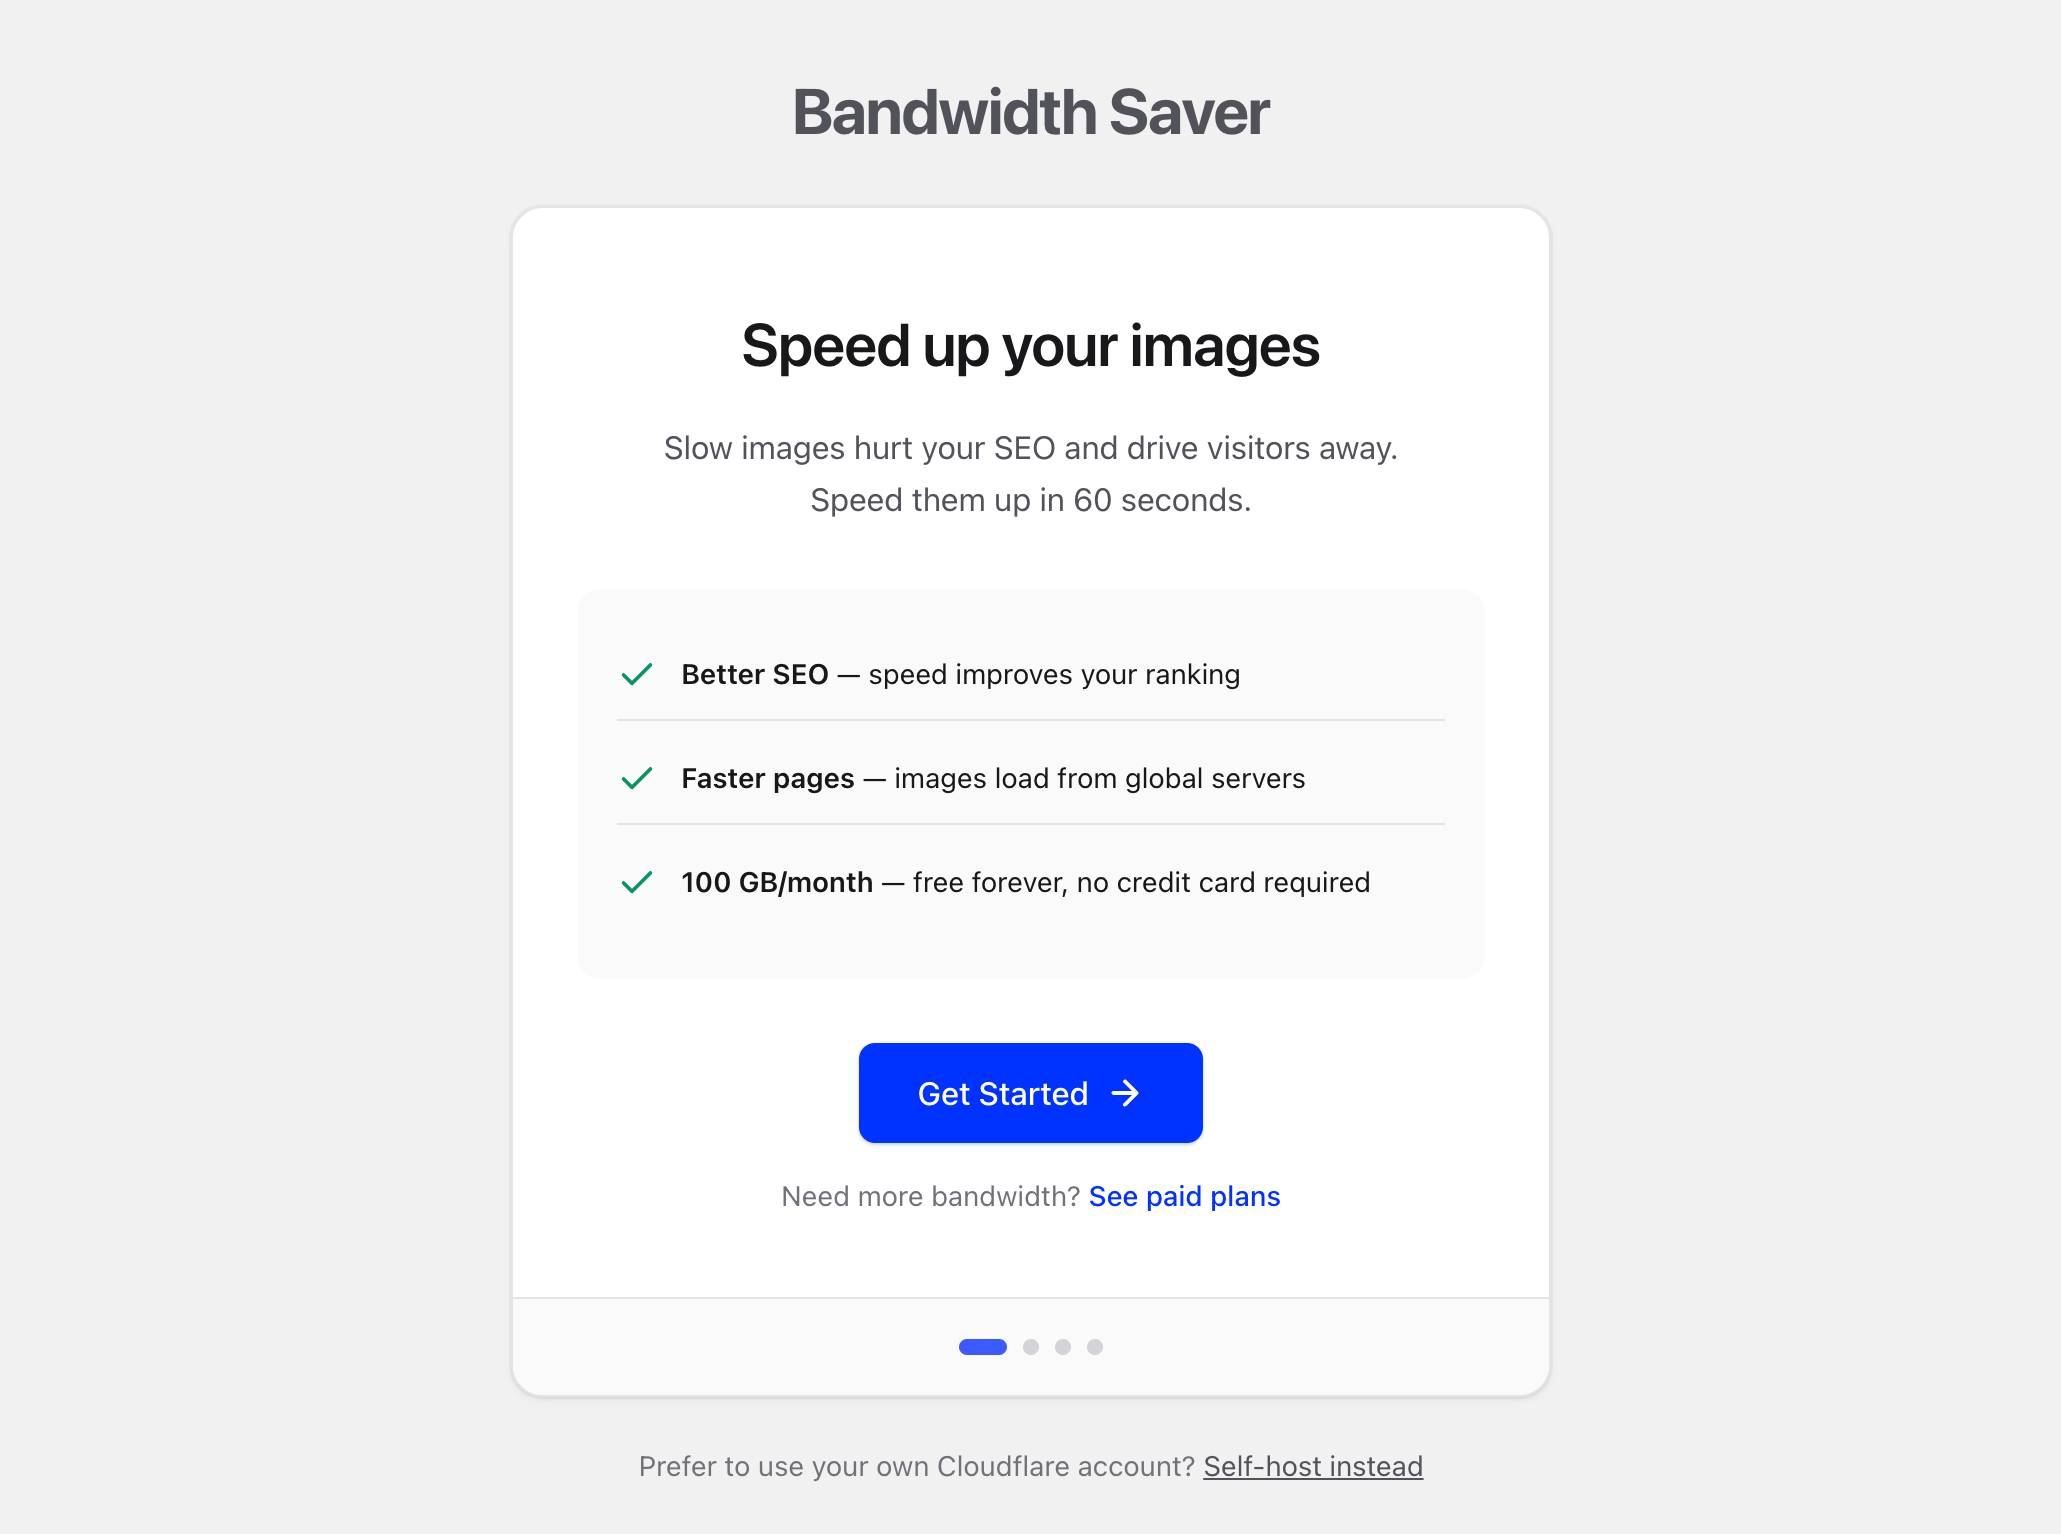
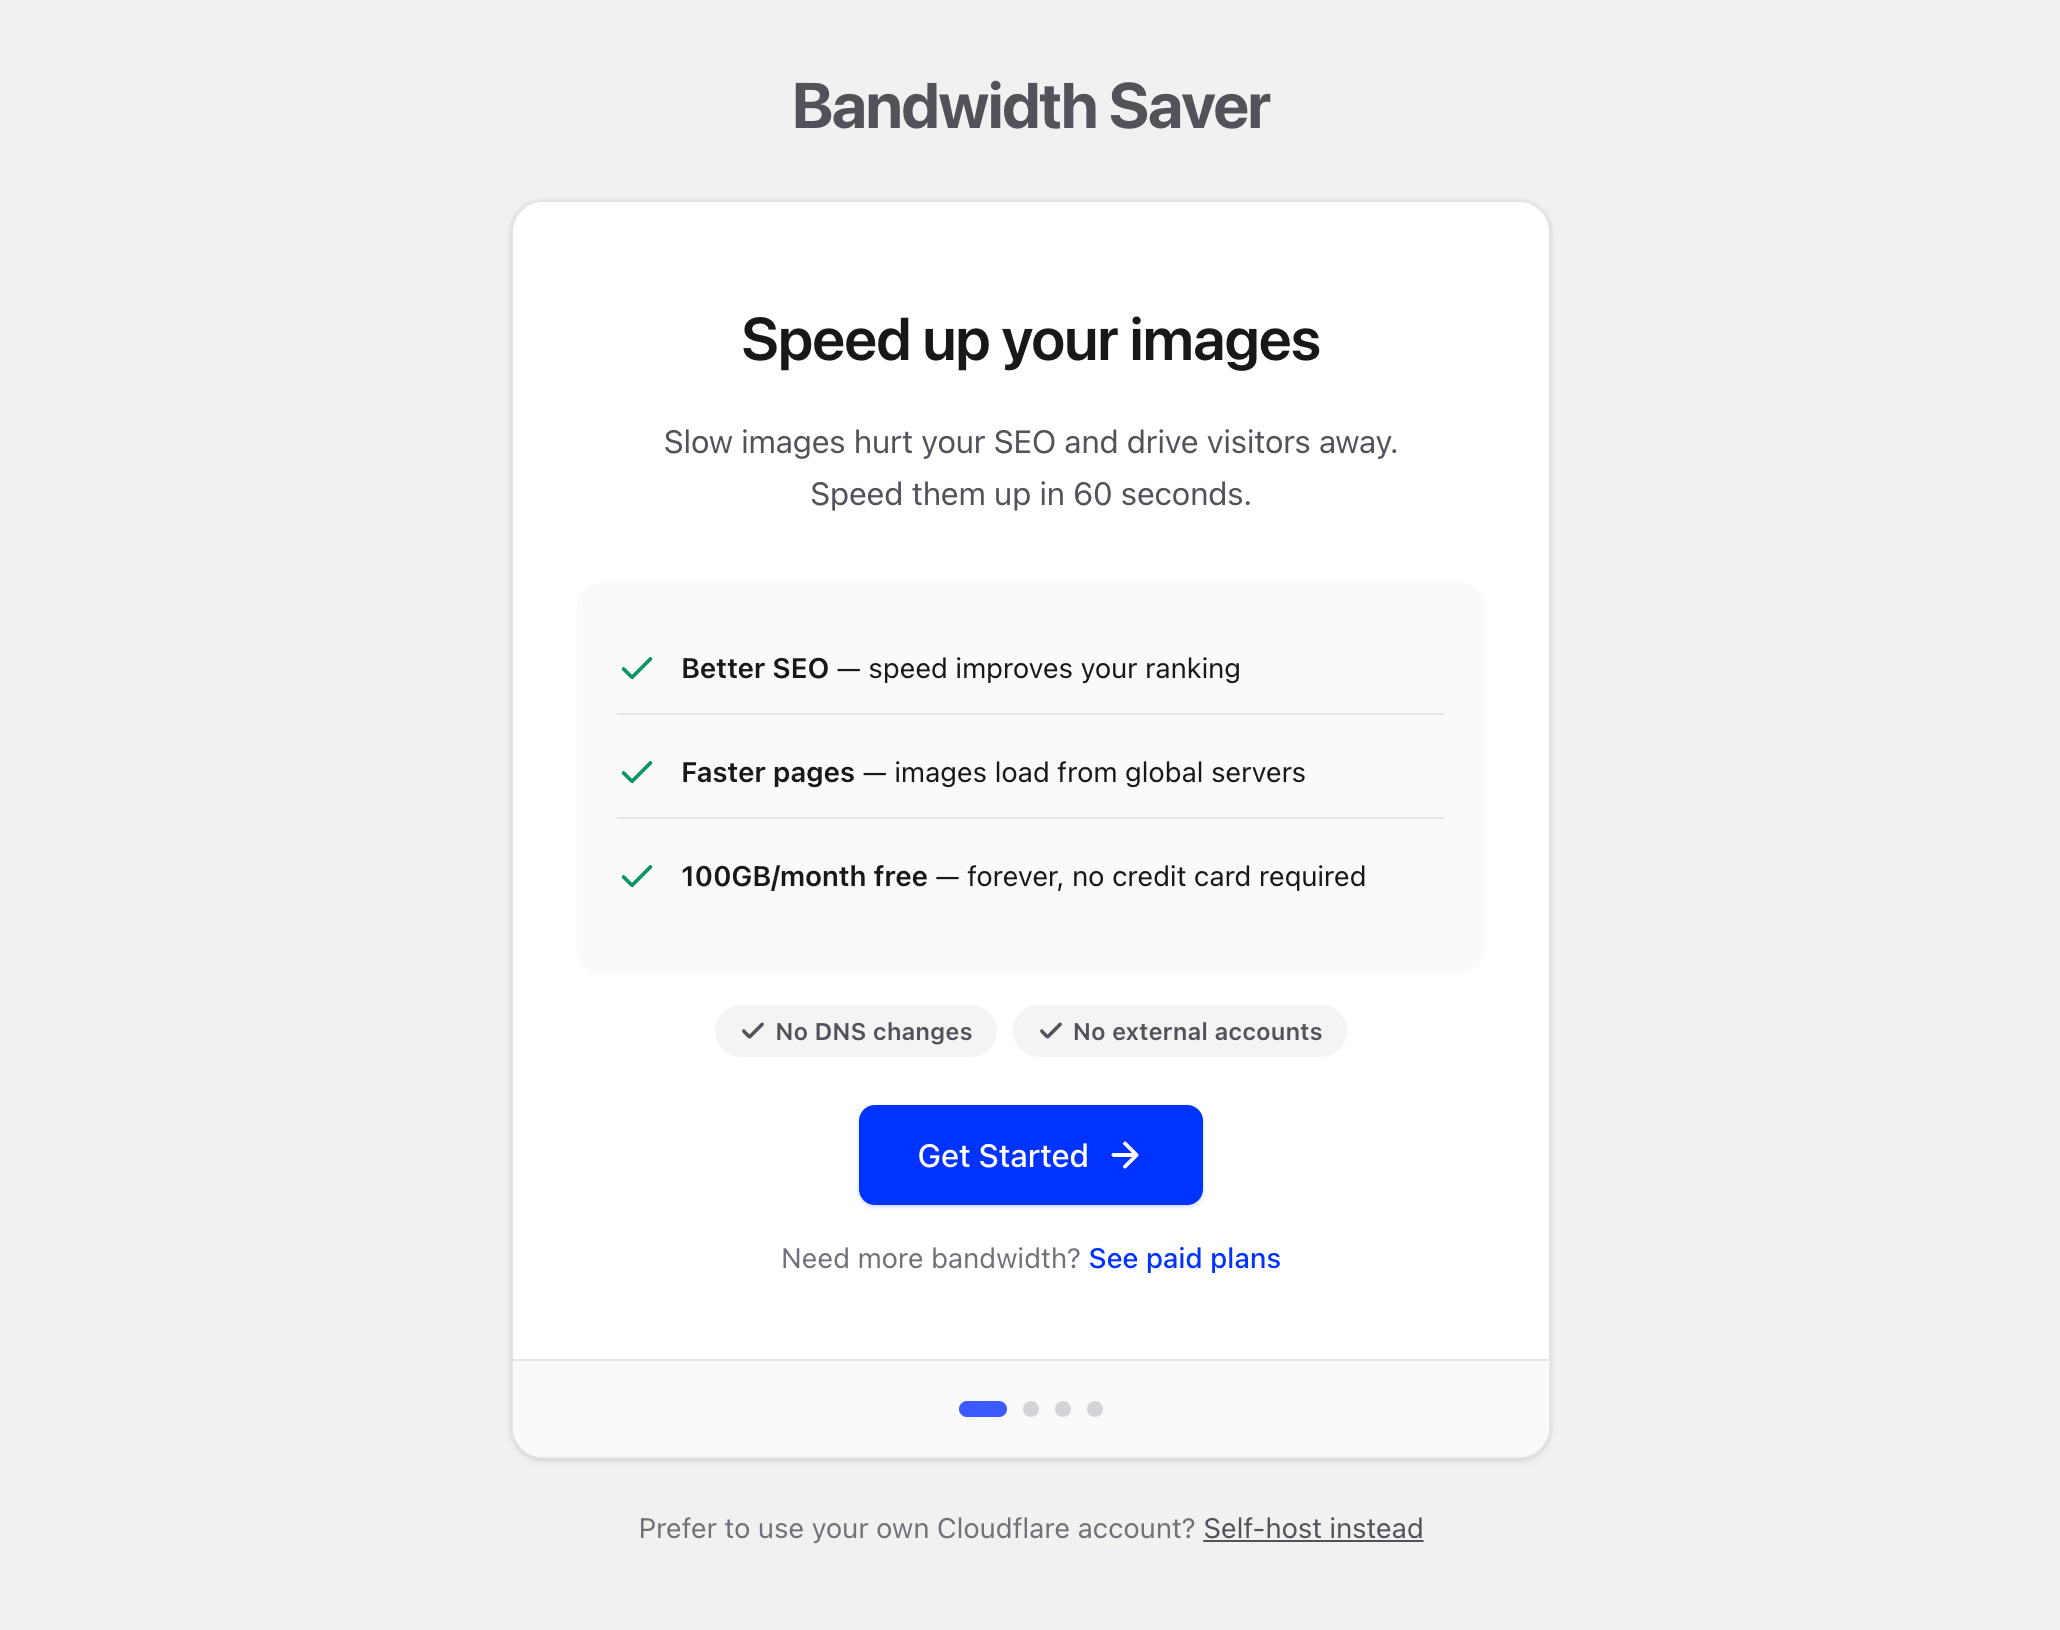
Release 0.2.3

diff --git a/admin/css/imgpro-cdn-admin.css b/admin/css/imgpro-cdn-admin.css
@@ -766,6 +766,35 @@
     font-weight: 600;
 }
 
+/* Pills */
+.imgpro-onboarding-pills {
+    display: flex;
+    justify-content: center;
+    gap: var(--imgpro-space-2);
+    margin: 0 0 var(--imgpro-space-6);
+}
+
+.imgpro-onboarding-pill {
+    display: inline-flex;
+    align-items: center;
+    gap: var(--imgpro-space-1);
+    padding: var(--imgpro-space-1) var(--imgpro-space-3);
+    font-size: var(--imgpro-text-xs);
+    font-weight: 600;
+    color: var(--imgpro-text-secondary);
+    background: var(--imgpro-gray-100);
+    border-radius: 9999px;
+}
+
+.imgpro-onboarding-step-1 {
+    text-align: center;
+}
+
+.imgpro-onboarding-step-1 .imgpro-onboarding-benefits {
+    text-align: left;
+    margin-bottom: var(--imgpro-space-4);
+}
+
 /* Actions */
 .imgpro-onboarding-actions {
     margin-bottom: var(--imgpro-space-4);
@@ -995,7 +1024,6 @@
     border: 1px solid var(--imgpro-border);
     border-radius: var(--imgpro-radius-lg);
     box-shadow: var(--imgpro-card-shadow);
-    margin-bottom: var(--imgpro-space-6);
     transition: all var(--imgpro-transition-base) var(--imgpro-ease-out);
 }
 
@@ -1865,9 +1893,11 @@
 
 .imgpro-feature-list {
     list-style: none;
-    margin: 0 0 var(--imgpro-space-8);
+    width: 100%;
+    max-width: 600px;
+    margin: 0 auto var(--imgpro-space-6);
     padding: var(--imgpro-space-5);
-    background: var(--imgpro-bg);
+    background: var(--imgpro-bg-subtle);
     border-radius: var(--imgpro-radius-lg);
     text-align: left;
 }
@@ -1879,6 +1909,7 @@
     padding: var(--imgpro-space-3) 0;
     font-size: var(--imgpro-text-sm);
     color: var(--imgpro-text);
+    line-height: var(--imgpro-leading-normal);
 }
 
 .imgpro-feature-list li:not(:last-child) {
@@ -1887,7 +1918,9 @@
 
 .imgpro-feature-list li svg {
     flex-shrink: 0;
-    margin-top: 2px;
+    width: 20px;
+    height: 20px;
+    margin-top: 1px;
     color: var(--imgpro-success-600);
 }
 
@@ -1909,10 +1942,43 @@
     font-size: var(--imgpro-text-sm);
 }
 
+/* CTA Pills */
+.imgpro-cta-pills {
+    display: flex;
+    justify-content: center;
+    gap: var(--imgpro-space-2);
+    margin-bottom: var(--imgpro-space-6);
+}
+
+.imgpro-cta-pill {
+    display: inline-flex;
+    align-items: center;
+    gap: var(--imgpro-space-1);
+    padding: var(--imgpro-space-1) var(--imgpro-space-3);
+    font-size: var(--imgpro-text-xs);
+    font-weight: 600;
+    color: var(--imgpro-text-secondary);
+    background: var(--imgpro-gray-100);
+    border-radius: 9999px;
+}
+
 .imgpro-cta-note {
     margin: var(--imgpro-space-4) 0 0;
     font-size: var(--imgpro-text-sm);
     color: var(--imgpro-text-muted);
+}
+
+.imgpro-safety-note {
+    margin: 0;
+    padding: var(--imgpro-space-3) var(--imgpro-space-4);
+    font-size: var(--imgpro-text-xs);
+    color: var(--imgpro-text-secondary);
+    background: transparent;
+    border: 1px solid rgba(0, 0, 0, 0.06);
+    border-top-color: rgba(0, 0, 0, 0.08);
+    border-bottom-color: rgba(255, 255, 255, 0.8);
+    border-radius: var(--imgpro-radius);
+    text-align: center;
 }
 
 .imgpro-cta-recovery {

diff --git a/includes/class-imgpro-cdn-admin.php b/includes/class-imgpro-cdn-admin.php
@@ -1017,7 +1017,7 @@ class ImgPro_CDN_Admin {
         if ( 'cancelled' === $type ) {
             $icon        = '<svg width="24" height="24" viewBox="0 0 24 24" fill="none"><circle cx="12" cy="12" r="10" stroke="currentColor" stroke-width="2"/><path d="M15 9l-6 6M9 9l6 6" stroke="currentColor" stroke-width="2" stroke-linecap="round"/></svg>';
             $title       = __( 'Your subscription has ended', 'bandwidth-saver' );
-            $message     = __( 'Your Pro subscription has been cancelled. CDN functionality is disabled until you resubscribe.', 'bandwidth-saver' );
+            $message     = __( 'Your subscription has been cancelled. CDN functionality is disabled until you resubscribe.', 'bandwidth-saver' );
             $button_text = __( 'Resubscribe', 'bandwidth-saver' );
             $button_id   = 'imgpro-resubscribe';
             $alert_class = 'is-error';
@@ -1155,13 +1155,24 @@ class ImgPro_CDN_Admin {
                     </li>
                     <li>
                         <svg width="20" height="20" viewBox="0 0 20 20" fill="none"><path d="M16.667 5L7.5 14.167 3.333 10" stroke="currentColor" stroke-width="2" stroke-linecap="round" stroke-linejoin="round"/></svg>
-                        <span><strong><?php esc_html_e('100 GB/month', 'bandwidth-saver'); ?></strong> — <?php esc_html_e('free forever, no credit card required', 'bandwidth-saver'); ?></span>
+                        <span><strong><?php esc_html_e('100GB/month free', 'bandwidth-saver'); ?></strong> — <?php esc_html_e('forever, no credit card required', 'bandwidth-saver'); ?></span>
                     </li>
                     <li>
                         <svg width="20" height="20" viewBox="0 0 20 20" fill="none"><path d="M16.667 5L7.5 14.167 3.333 10" stroke="currentColor" stroke-width="2" stroke-linecap="round" stroke-linejoin="round"/></svg>
                         <span><strong><?php esc_html_e('Nothing to break', 'bandwidth-saver'); ?></strong> — <?php esc_html_e('your images stay safely on your server', 'bandwidth-saver'); ?></span>
                     </li>
                 </ul>
+
+                <div class="imgpro-cta-pills">
+                    <span class="imgpro-cta-pill">
+                        <svg width="14" height="14" viewBox="0 0 20 20" fill="none"><path d="M16.667 5L7.5 14.167 3.333 10" stroke="currentColor" stroke-width="2.5" stroke-linecap="round" stroke-linejoin="round"/></svg>
+                        <?php esc_html_e('No DNS changes', 'bandwidth-saver'); ?>
+                    </span>
+                    <span class="imgpro-cta-pill">
+                        <svg width="14" height="14" viewBox="0 0 20 20" fill="none"><path d="M16.667 5L7.5 14.167 3.333 10" stroke="currentColor" stroke-width="2.5" stroke-linecap="round" stroke-linejoin="round"/></svg>
+                        <?php esc_html_e('No external accounts', 'bandwidth-saver'); ?>
+                    </span>
+                </div>
 
                 <div class="imgpro-cta-actions">
                     <button type="button" class="imgpro-btn imgpro-btn-primary imgpro-btn-lg" id="imgpro-free-signup">
@@ -1219,18 +1230,21 @@ class ImgPro_CDN_Admin {
             <?php // 1. CDN Toggle ?>
             <?php $this->render_toggle_card($settings, ImgPro_CDN_Settings::MODE_CLOUD); ?>
 
+            <p class="imgpro-safety-note">
+                <?php esc_html_e('Your original images stay on your server. Turning the CDN off or deactivating the plugin will not break your site — image URLs simply return to normal.', 'bandwidth-saver'); ?>
+            </p>
 
-            <?php // 2. Account Card ?>
-            <?php $this->render_account_card($settings, $email); ?>
-
-            <?php // 3. Stats Grid ?>
+            <?php // 2. Stats Grid ?>
             <?php $this->render_stats_grid($settings); ?>
 
-            <?php // 4. Source URLs Section ?>
-            <?php $this->render_source_urls_section($settings); ?>
+            <?php // 3. Account Card ?>
+            <?php $this->render_account_card($settings, $email); ?>
 
-            <?php // 5. Custom Domain Section ?>
+            <?php // 4. Custom Domain Section ?>
             <?php $this->render_custom_domain_section($settings); ?>
+
+            <?php // 5. Source URLs Section ?>
+            <?php $this->render_source_urls_section($settings); ?>
 
             <?php // Custom Domain Pending Notice (if DNS needs attention) ?>
             <?php if ($needs_attention): ?>
@@ -1326,7 +1340,7 @@ class ImgPro_CDN_Admin {
                 <div class="imgpro-account-card__footer">
                     <span><?php echo esc_html($email); ?></span>
                     <span class="imgpro-separator">·</span>
-                    <span><?php esc_html_e('Free Plan', 'bandwidth-saver'); ?></span>
+                    <span><?php esc_html_e('Free Plan — 100 GB/month included', 'bandwidth-saver'); ?></span>
                 </div>
             </div>
         <?php else: ?>

diff --git a/includes/class-imgpro-cdn-onboarding.php b/includes/class-imgpro-cdn-onboarding.php
@@ -161,9 +161,20 @@ class ImgPro_CDN_Onboarding {
                 </li>
                 <li>
                     <svg width="20" height="20" viewBox="0 0 20 20" fill="none"><path d="M16.667 5L7.5 14.167 3.333 10" stroke="currentColor" stroke-width="2" stroke-linecap="round" stroke-linejoin="round"/></svg>
-                    <span><strong><?php esc_html_e('100 GB/month', 'bandwidth-saver'); ?></strong> — <?php esc_html_e('free forever, no credit card required', 'bandwidth-saver'); ?></span>
+                    <span><strong><?php esc_html_e('100GB/month free', 'bandwidth-saver'); ?></strong> — <?php esc_html_e('forever, no credit card required', 'bandwidth-saver'); ?></span>
                 </li>
             </ul>
+
+            <div class="imgpro-onboarding-pills">
+                <span class="imgpro-onboarding-pill">
+                    <svg width="14" height="14" viewBox="0 0 20 20" fill="none"><path d="M16.667 5L7.5 14.167 3.333 10" stroke="currentColor" stroke-width="2.5" stroke-linecap="round" stroke-linejoin="round"/></svg>
+                    <?php esc_html_e('No DNS changes', 'bandwidth-saver'); ?>
+                </span>
+                <span class="imgpro-onboarding-pill">
+                    <svg width="14" height="14" viewBox="0 0 20 20" fill="none"><path d="M16.667 5L7.5 14.167 3.333 10" stroke="currentColor" stroke-width="2.5" stroke-linecap="round" stroke-linejoin="round"/></svg>
+                    <?php esc_html_e('No external accounts', 'bandwidth-saver'); ?>
+                </span>
+            </div>
 
             <div class="imgpro-onboarding-actions">
                 <button type="button" class="imgpro-btn imgpro-btn-primary imgpro-btn-lg" id="imgpro-onboarding-start">
@@ -309,6 +320,10 @@ class ImgPro_CDN_Onboarding {
                     <li>
                         <svg width="16" height="16" viewBox="0 0 16 16" fill="none"><circle cx="8" cy="8" r="3" fill="currentColor"/></svg>
                         <?php esc_html_e('Your original files stay safe on your server', 'bandwidth-saver'); ?>
+                    </li>
+                    <li>
+                        <svg width="16" height="16" viewBox="0 0 16 16" fill="none"><circle cx="8" cy="8" r="3" fill="currentColor"/></svg>
+                        <?php esc_html_e('If anything goes wrong, images load directly from your site', 'bandwidth-saver'); ?>
                     </li>
                 </ul>
             </div>

diff --git a/imgpro-cdn.php b/imgpro-cdn.php
@@ -3,7 +3,7 @@
  * Plugin Name: Bandwidth Saver: Image CDN
  * Plugin URI: https://github.com/img-pro/bandwidth-saver
  * Description: Instant image CDN. 100 GB/month free, no DNS changes, no external accounts.
- * Version: 0.2.2
+ * Version: 0.2.3
  * Author: ImgPro
  * Author URI: https://img.pro
  * License: GPLv2 or later
@@ -25,7 +25,7 @@ if (version_compare(get_bloginfo('version'), '6.2', '<')) {
     add_action('admin_notices', function() {
         ?>
         <div class="notice notice-error">
-            <p><?php esc_html_e('Image CDN requires WordPress 6.2 or higher. Please update WordPress to use this plugin.', 'bandwidth-saver'); ?></p>
+            <p><?php esc_html_e('Bandwidth Saver requires WordPress 6.2 or higher. Please update WordPress to use this plugin.', 'bandwidth-saver'); ?></p>
         </div>
         <?php
     });
@@ -37,7 +37,7 @@ if (version_compare(PHP_VERSION, '7.4', '<')) {
     add_action('admin_notices', function() {
         ?>
         <div class="notice notice-error">
-            <p><?php esc_html_e('Image CDN requires PHP 7.4 or higher. Contact your hosting provider to upgrade.', 'bandwidth-saver'); ?></p>
+            <p><?php esc_html_e('Bandwidth Saver requires PHP 7.4 or higher. Contact your hosting provider to upgrade.', 'bandwidth-saver'); ?></p>
         </div>
         <?php
     });
@@ -46,7 +46,7 @@ if (version_compare(PHP_VERSION, '7.4', '<')) {
 
 // Define plugin constants
 if (!defined('IMGPRO_CDN_VERSION')) {
-    define('IMGPRO_CDN_VERSION', '0.2.2');
+    define('IMGPRO_CDN_VERSION', '0.2.3');
 }
 if (!defined('IMGPRO_CDN_PLUGIN_DIR')) {
     define('IMGPRO_CDN_PLUGIN_DIR', plugin_dir_path(__FILE__));
